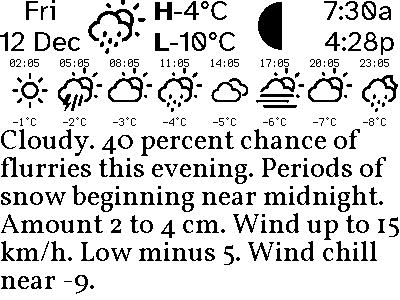
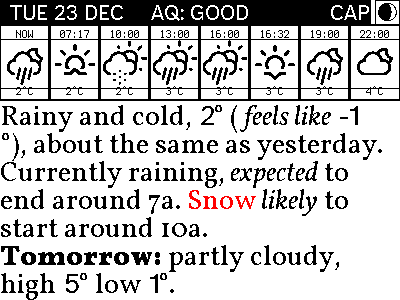
move narrative description up so there's now +1 more lines; microcontroller.reset() after 1hr deep sleep :feelsgood:

Changed region(s): [[0.0, 0.0, 1.0, 1.0], [0.87, 0.72, 1.0, 0.78], [0.42, 0.96, 0.45, 0.99]]

diff --git a/300x400/CIRCUITPY/code.py b/300x400/CIRCUITPY/code.py
@@ -18,6 +18,7 @@ import config
 import digitalio
 import displayio
 import fourwire
+import microcontroller
 import socketpool
 import storage
 import weather_api
@@ -337,7 +338,6 @@ def main():
     # Global state for polling
     last_successful_update = 0
     current_weather_data = None
-    consecutive_failures = 0
 
     log("pinkweather starting...")
 
@@ -350,55 +350,30 @@ def main():
                 current_weather_data = initial_data
                 update_display_with_weather_layout(current_weather_data)
                 last_successful_update = time.monotonic()
-                consecutive_failures = 0
                 log("Initial weather fetch successful")
             else:
                 log("Initial weather fetch failed")
-                consecutive_failures = 1
         except Exception as e:
             log(f"Error in initial weather fetch: {e}")
-            consecutive_failures = 1
     else:
         log("WiFi connection failed on boot")
-        consecutive_failures = 1
 
     log("pinkweather ready! Entering main polling loop...")
 
     while True:
         current_time = time.monotonic()
-        hours_since_update = (current_time - last_successful_update) / 3600
 
-        # Smart sleep intervals based on failure count and last success
-        if consecutive_failures == 0:
-            # Success case: sleep for full hour
-            sleep_minutes = 60
-        elif consecutive_failures == 1:
-            # First failure: retry after 5 minutes
-            sleep_minutes = 5
-        elif consecutive_failures <= 4:
-            # Multiple failures: 15 minute intervals
-            sleep_minutes = 15
-        else:
-            # Many failures: back to hourly attempts
-            sleep_minutes = 60
-
-        # Store the calculated sleep time before any processing
-        planned_sleep_minutes = sleep_minutes
-
-        # Check if it's time for an update
+        # Check if it's time for an update (hourly)
         needs_update = False
         if last_successful_update == 0:
-            # Never successfully updated
+            # Never succeeded, try now
             needs_update = True
-        elif consecutive_failures == 0 and hours_since_update >= 1.0:
-            # Normal hourly update
-            needs_update = True
-        elif consecutive_failures > 0:
-            # Failed recently, time for retry
+        elif current_time - last_successful_update >= 3600:  # 60 minutes
+            # Time for hourly update
             needs_update = True
 
         if needs_update:
-            log(f"Time to refresh weather data... (failures: {consecutive_failures})")
+            log("Time to refresh weather data...")
 
             # Re-establish WiFi connection
             wifi_connected = False
@@ -406,7 +381,6 @@ def main():
                 wifi_connected = connect_wifi()
                 if not wifi_connected:
                     log("WiFi connection failed")
-                    consecutive_failures += 1
                 else:
                     # Attempt weather data fetch
                     fresh_data = get_weather_display_data()
@@ -414,25 +388,20 @@ def main():
                         current_weather_data = fresh_data
                         update_display_with_weather_layout(current_weather_data)
                         last_successful_update = current_time
-                        consecutive_failures = 0
                         log("Weather refresh completed successfully")
                     else:
                         log("Weather fetch failed")
-                        consecutive_failures += 1
             except Exception as e:
                 log(f"Error during weather refresh: {e}")
-                consecutive_failures += 1
 
-        # Check for extended error condition
-        if hours_since_update >= 12:
-            log(f"WARNING: No weather updates for {hours_since_update:.1f} hours")
-            # Could display error message on screen here if needed
+        # Sleep for 60 minutes, then reboot for fresh network stack
+        log("Entering deep sleep for 60 minutes...")
+        deep_sleep(60)
 
-        # Enter deep sleep with WiFi power saving
-        log(
-            f"Next update attempt in {planned_sleep_minutes} minutes (consecutive failures: {consecutive_failures})"
-        )
-        deep_sleep(planned_sleep_minutes)
+        # After waking from deep sleep, soft reboot for fresh network stack
+        log("Waking from deep sleep - rebooting for fresh network stack...")
+        time.sleep(1)  # Give log time to write
+        microcontroller.reset()
 
 
 # Run main function

diff --git a/300x400/CIRCUITPY/header.py b/300x400/CIRCUITPY/header.py
@@ -175,21 +175,23 @@ def create_weather_layout(
     )
     main_group.append(header_group)
 
-    # Add forecast row below header
+    # Add weather description first (background layer)
     forecast_height = 0
+    if weather_desc:
+        header_height = get_header_height()
+        # Calculate forecast height even if we don't have forecast data yet
+        if forecast_data and len(forecast_data) > 0:
+            forecast_height = get_forecast_row_height()
+        desc_y = header_height + forecast_height - 10  # Move up 10px to fit more lines
+        available_height = 300 - desc_y
+        desc_group = create_weather_description(weather_desc, desc_y, available_height)
+        main_group.append(desc_group)
+
+    # Add forecast row on top of description
     if forecast_data and len(forecast_data) > 0:
         header_height = get_header_height()
         forecast_y = header_height
         forecast_group, cell_count = create_forecast_row(forecast_data, forecast_y)
         main_group.append(forecast_group)
-        forecast_height = get_forecast_row_height()
-
-    # Add weather description below forecast
-    if weather_desc:
-        header_height = get_header_height()
-        desc_y = header_height + forecast_height
-        available_height = 300 - desc_y
-        desc_group = create_weather_description(weather_desc, desc_y, available_height)
-        main_group.append(desc_group)
 
     return main_group

diff --git a/300x400/CIRCUITPY/weather_api.py b/300x400/CIRCUITPY/weather_api.py
@@ -431,8 +431,17 @@ def get_display_variables(forecast_data, timezone_offset_hours=None):
         if timezone_offset_hours is None:
             raise ValueError("timezone_offset_hours must be provided")
 
-        # Convert timestamp to date components using centralized utility
+        # Log timestamp in both formats
+        from date_utils import format_timestamp_to_date, format_timestamp_to_time
+
+        readable_time = format_timestamp_to_time(
+            api_timestamp, format_12h=False
+        )  # 24-hour HH:MM
         date_info = format_timestamp_to_date(api_timestamp)
+        readable_date = f"{date_info['year']}-{date_info['month_name']}-{date_info['day_num']:02d} {readable_time}"
+        log(f"Current timestamp: {api_timestamp} ({readable_date})")
+
+        # Convert timestamp to date components using centralized utility
         day_name = date_info["day_name"]
         day_num = date_info["day_num"]
         month_name = date_info["month_name"]
